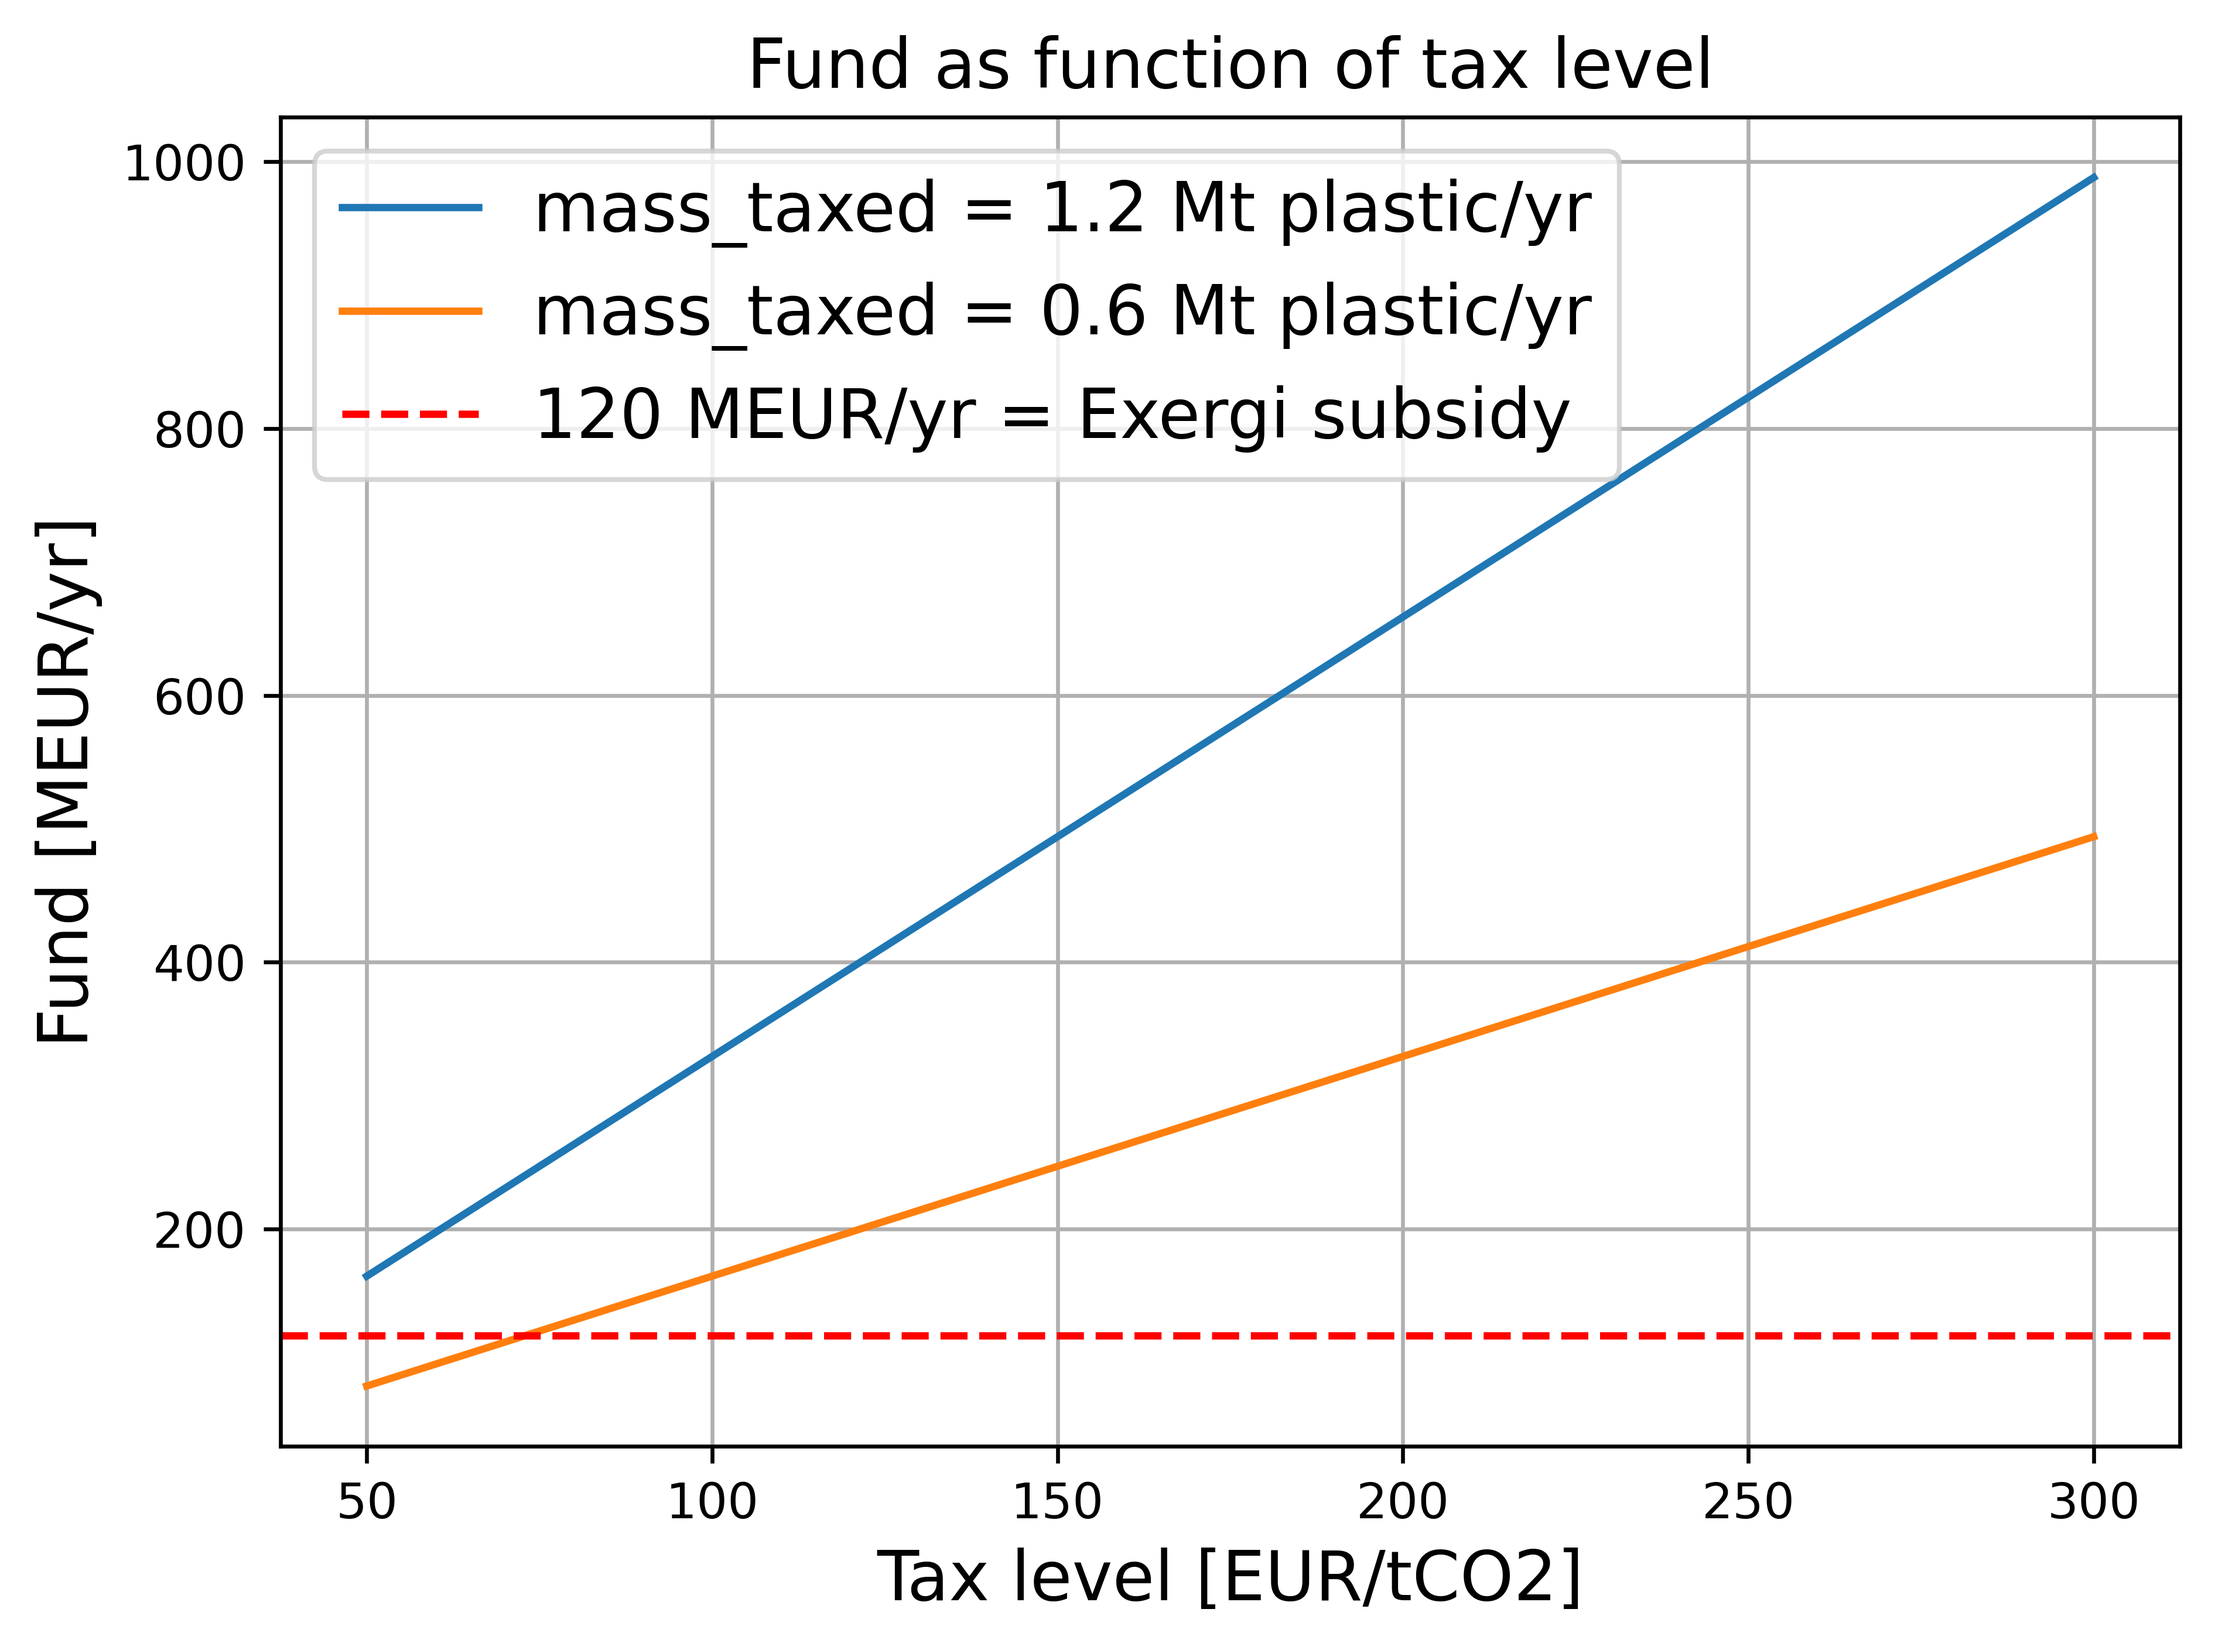
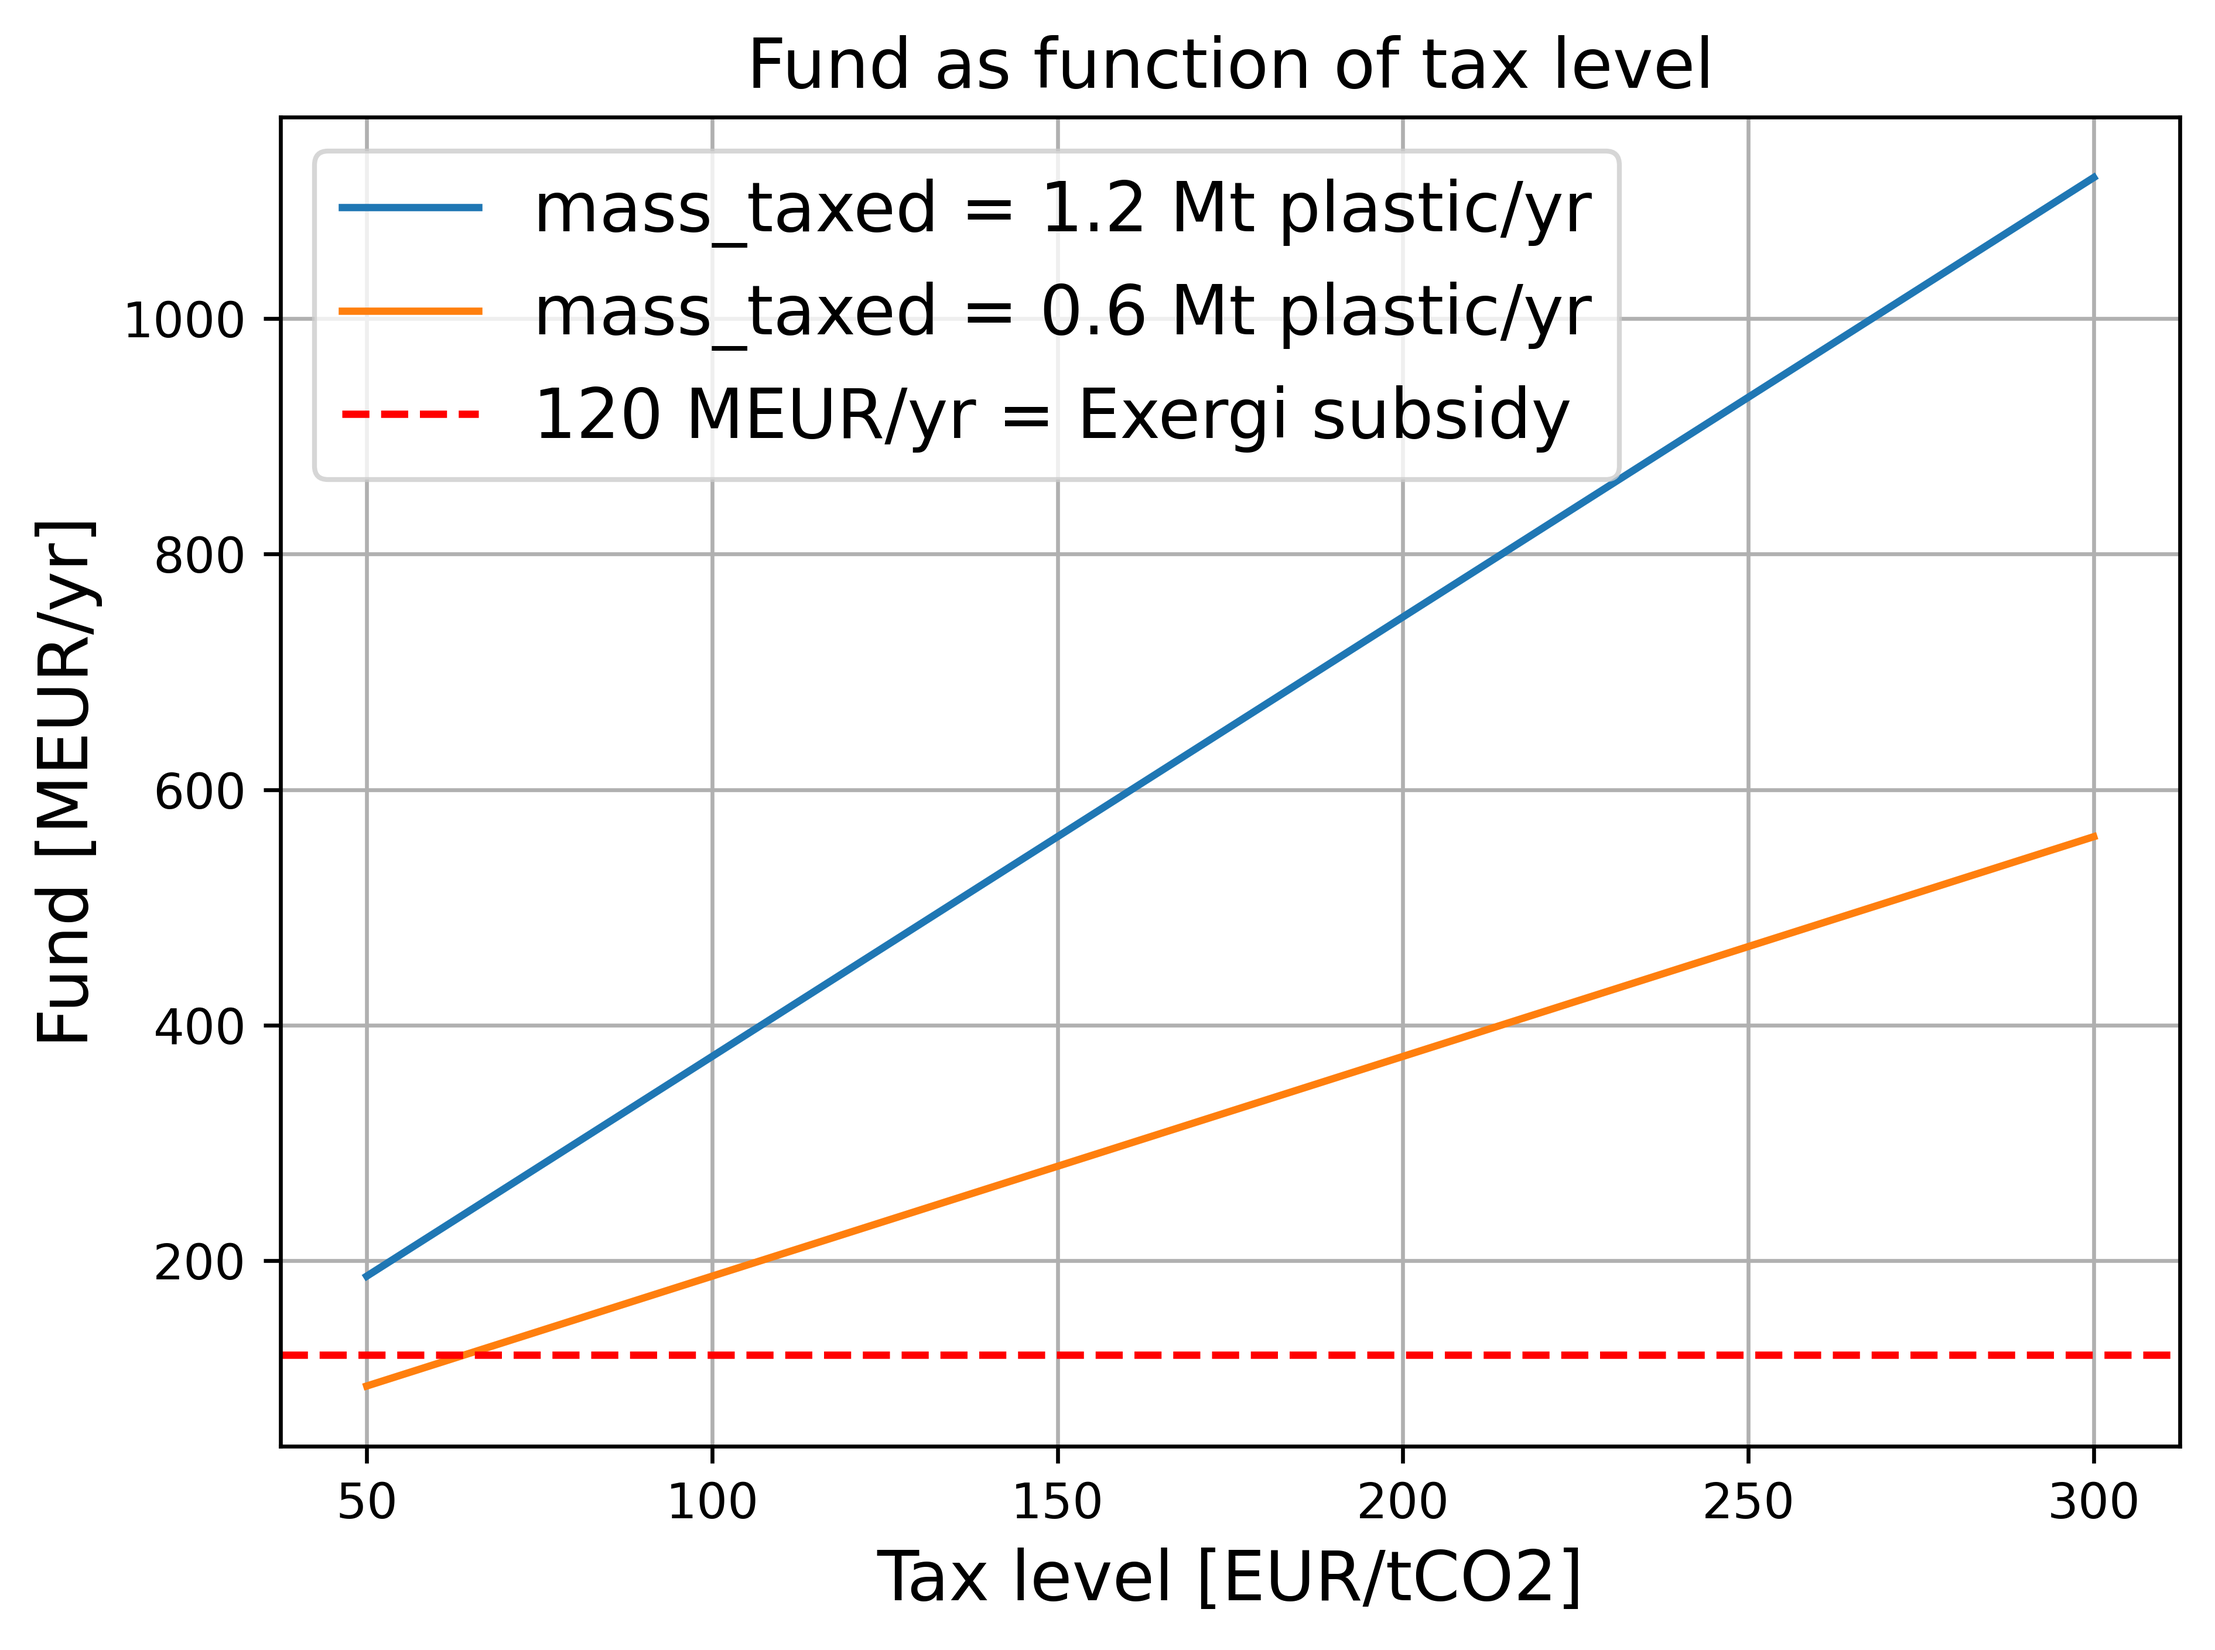
Price increases are implemented - ready to run many scenarios

diff --git a/model_old.py b/model_old.py
@@ -786,10 +786,10 @@ def plan_CCS(plant, x, transport_costs, sea_distances):
     # print("<<< Missing Truck/Rail/Harbor costs >>>")
     # print(plant["hub"], x["destination"])
     
-    hub_value = x[plant["hub"].lower()]              # Get the value (1, 2, or 3) for this hub name from x
+    hub_value = x[plant["hub"].lower()]              # Get the value (1, 2, or 3) for this hub
     scenario = f"{hub_value}Mt"                      # Convert to scenario name (1Mt, 2Mt, or 3Mt)
     
-    scenario_type = "optimist" if x["transport_optimism"] else "pessimist"
+    scenario_type = "optimist" if x["optimism"] else "pessimist"
     scenario_key = f"{scenario_type}_{scenario}"
     # print(scenario_key)
     
@@ -1224,26 +1224,20 @@ def WACCUS_EPR(
     # uncertainties
     mKN39 = 884393,     # [t/a] plastic products mappable under KN39 [IVL]
     pKN39 = 46000,      # [SEK/tpl] [IVL]
-    mgranulates = 1258597, # [t/a] granulates [IVL]
-    pgranulates = 13000, # [SEK/t] [IVL]
-    mbag = 5*10**-6,       # [t/bag] check plastic_mapping calculation
-    pbag = 0.72,           # [SEK/bag]
-    cfraction = 0.85,    # [-] cfraction of carbon in plastic [Isabel]
-    circulated = 0.10,   # [-] fraction of granulates circulated, exempt from tax
+    recyclable = 0.15,  # [-] fraction of simple products possible to recycle mechanically
+    cfraction = 0.75,    # [-] cfraction of carbon in plastic [Isabel]
 
-    FLH = 8000,
     LHV = 11,           # [MJ/kgf] [Hammar]
     Ccontent = 0.298,   # [kgC/kgf]
-    # fossil = 0.40,      # [-] NOTE: assumption not needed: emissions data is available and used
+    fossil = 0.40,      # [-] NOTE: assumption not needed: emissions data is available and used
     qreb = 3.5,         # [MJ/kgCO2]
     COP = 3,
-    heat_optimism = 0.70,  # [0,1] assumed % of waste heat that can be recovered to DH
-    makeup = 0.584/1000,    # [m3/tCO2] [Kumar, 2023]
-    etais = 0.80,           # [-]
 
+    FLH = 8000,
     dr = 0.075,
     t = 25,
     FOAK = 0.45/2,      # [-] [Beiron, 2024] applies to CO2 capture and conditioning 
+    # FOAK = 0, # FOR EON MEETING
     OPEXfix = 0.03,     # [-] [Beiron, 2024] % of CAPEX no, calculated from Ramboll BECCS Malmö [2-5%]
     camine = 2000,      # [EUR/m3] [Beiron, 2024]
     celc = 60,          # [EUR/MWh]
@@ -1257,45 +1251,40 @@ def WACCUS_EPR(
     stockholm = 1,      # [1,2,3] [Mt/yr]
     malmo = 1,          # [1,2,3] [Mt/yr]
     gothenburg = 1,     # [1,2,3] [Mt/yr]
+    optimism = False,   # [True, False]
     destination = "oygarden",  # ["oygarden", "kalundborg"]
-    transport_optimism = False,   # [True, False]
+    heat_optimism = 0.70,  # [0,1] assumed % of waste heat that can be recovered to DH
 
     # levers 
-    tax = 80,          # [EUR/tCO2] [50, 100, 150, 200, 250, 300, 350] NOTE: explore discrete ranges => easier to visualize later
-    recyclable = 0.15,  # [-] fraction of products possible to recycle mechanically (exempt from tax), determined by policy criteria
+    tax = 110,          # [EUR/tCO2]
 
     # constants
-    question = ["granulates"], # ["granulates", "products", "both"]
-    case = ["CCUS"],    # ["CCUS", "CCU", "CCS"] conduct analysis separately for the three cases
     plants = None,
+    case = ["CCUS"],    # ["CCUS", "CCU", "CCS"] conduct analysis separately for the three cases
     k = 0.6857,         # [-] [Stenström, 2025]
     CAPEX_ref = 3715 * 87,  # [MNOK] -> [kEUR] NOTE: can pick other CELSIO CAPEX from source:[Gassnova, Demonstrasjon av Fullskala CO2-Håndtering - Rapport for Avsluttet Forprosjekt]
     captured_ref = 400,     # [ktCO2/yr]
     transport_costs = None,  # Dictionary of transport cost interpolation functions
     sea_distances = None,    # Dictionary of pre-calculated sea distances
     thermo_props = None,     # Dictionary of thermodynamic properties
+
     SEK_TO_EUR = 0.091,     # [EUR/SEK] Exchange rate
-    # assumption = producers do not react to the tax, no recycling rates
+    makeup = 0.584/1000,    # [m3/tCO2] [Kumar, 2023]
+    etais = 0.80,           # [-]
 ):
     x = {
         "mKN39": mKN39,
+        "recyclable": recyclable,
         "pKN39": pKN39,
-        "mgranulates": mgranulates,
-        "pgranulates": pgranulates,
-        "mbag": mbag,
-        "pbag": pbag,
         "cfraction": cfraction,
         
-        "FLH": FLH,
         "LHV": LHV,
         "Ccontent": Ccontent,
-        # "fossil": fossil,
+        "fossil": fossil,
         "qreb": qreb,
         "COP": COP,
-        "heat_optimism": heat_optimism,
-        "makeup": makeup,
-        "etais": etais,
 
+        "FLH": FLH,
         "dr": dr,
         "t": t,
         "FOAK": FOAK,
@@ -1306,6 +1295,7 @@ def WACCUS_EPR(
         "CRC": CRC,
         "ETS": ETS,
         "pmethanol": pmethanol,
+        "heat_optimism": heat_optimism,
 
         "tax": tax,
         "k": k,
@@ -1317,34 +1307,50 @@ def WACCUS_EPR(
         "stockholm": stockholm,
         "malmo": malmo,
         "gothenburg": gothenburg,
+        "optimism": optimism,
         "destination": destination,
-        "transport_optimism": transport_optimism,
-
+        "makeup": makeup,
+        "etais": etais,
         "thermo_props": thermo_props,  # Add thermodynamic properties to x dictionary
     }
 
-    # Taxing plastic products
-    for question in ["granulates"]:
-        if question == "granulates":
-            mass_taxed = mgranulates * (1 - circulated) * cfraction # [tC/yr]
-            granulates_inc = tax * (cfraction*3.66) / (pgranulates*SEK_TO_EUR) # [-]
-            products_inc = tax * (cfraction*3.66) / (pKN39*SEK_TO_EUR) 
-            bag_inc = tax * (cfraction*3.66 * mbag) / (pbag*SEK_TO_EUR) 
-        elif question == "products":
-            mass_taxed = mKN39 * (1 - recyclable) * cfraction # [tC/yr]
-            granulates_inc = 0 # [-]
-            products_inc = tax * (cfraction*3.66) / (pKN39*SEK_TO_EUR) 
-            bag_inc = tax * (cfraction*3.66 * mbag) / (pbag*SEK_TO_EUR)
-        elif question == "both":
-            mass_taxed = mgranulates * (1 - circulated) * cfraction + mKN39 * (1 - recyclable) * cfraction # [tC/yr]
-            granulates_inc = tax * (cfraction*3.66) / (pgranulates*SEK_TO_EUR) # EUR/tCO2 * (tC/tpl*tCO2/tC) / (EUR/tpl) = EUR/tCO2 * (tCO2/tpl) / (EUR/tpl)
-            products_inc = 2 * tax * (cfraction*3.66) / (pKN39*SEK_TO_EUR) # [-] Motivate why this is not double taxation!
-            bag_inc = 2 * tax * (cfraction*3.66 * mbag) / (pbag*SEK_TO_EUR) # EUR/tCO2 * (tCO2/bag) / (EUR/bag)
+    # RQ1: tax revenues
 
-        mass_CO2 = mass_taxed * 3.66 # [tCO2/yr]
-        fund = mass_CO2 * tax * 10**-6 # [MEUR/yr]
+    # Plot fund values as a function of tax level for two cases
+    tax_levels = np.linspace(50, 300, 100)
+    mass_taxed_1 = 1.2
+    mass_taxed_2 = 0.6 # [Mtpl /yr]
 
-    # Creating CCUS bids from CCUS costs
+    fund_1 = mass_taxed_1 * cfraction * 3.66 * tax_levels  # [MEUR/yr]
+    fund_2 = mass_taxed_2 * cfraction * 3.66 * tax_levels  # [MEUR/yr]
+
+    plt.figure()
+    plt.plot(tax_levels, fund_1, label=f"mass_taxed = {mass_taxed_1:.1f} Mt plastic/yr")
+    plt.plot(tax_levels, fund_2, label=f"mass_taxed = {mass_taxed_2:.1f} Mt plastic/yr")
+    plt.axhline(120, color='red', linestyle='--', label='120 MEUR/yr = Exergi subsidy')
+    plt.xlabel("Tax level [EUR/tCO2]", fontsize=14)
+    plt.ylabel("Fund [MEUR/yr]", fontsize=14)
+    plt.title("Fund as function of tax level", fontsize=14)
+    plt.legend(fontsize=14)
+    plt.grid(True)
+    plt.tight_layout()
+    plt.savefig('fund_potential.png', dpi=600, bbox_inches='tight')
+
+    mass_taxed = mKN39 * (1 - recyclable) * cfraction # [tC/yr]
+    mass_CO2 = mass_taxed * 3.66 # [tCO2/yr]
+    fund = mass_CO2 * tax # [EUR/yr]
+    fund /= 10**6 # [MEUR/yr]
+
+    # Forcing an example for EON:
+    mass_CO2 = 1.2 * cfraction * 3.66 # [MtCO2/yr]
+    fund = mass_CO2 * tax # [MEUR/yr]
+
+    # RQ1: product price increases
+    products_df = pd.read_csv("data/products.csv")
+    products_df['tax_amount'] = products_df['weight per unit [kg]']/1000 * (products_df['fossil carbon content [mass%]']/100) * 3.66 * tax  # [EUR]
+    products_df['price_increase_percent'] = (products_df['tax_amount'] / products_df['price per unit [EUR]']) * 100  # [%]
+
+    # RQ2: subsidy costs
     if case == "CCUS":
         CCU_names = ["Renova","SAKAB","Filbornaverket","Garstadverket","Sjolunda"]
         CCS_names = ["Handeloverket","Bristaverket","Vasteras KVV","Hogdalenverket","Bolanderna"]
@@ -1356,6 +1362,7 @@ def WACCUS_EPR(
         CCU_names = []
         CCS_names = ["Renova","Hogdalenverket","Sjolunda","Korstaverket","Garstadverket","Vasteras KVV","Handeloverket","Bolanderna","Filbornaverket","Bristaverket"]
 
+    # Collect all bids
     bids = []
     for _, plant in plants.iterrows():
         if plant["Name"] in CCS_names:
@@ -1470,9 +1477,6 @@ def WACCUS_EPR(
     print(f"Qmethanol: {total_Qmethanol/1000:.1f} GWh/yr")
 
     output = {
-        'granulates_inc': granulates_inc,
-        'products_inc': products_inc,
-        'bag_inc': bag_inc,
         'total_FCCS': total_FCCS,
         'total_BECCS': total_BECCS,
         'total_FCCU': total_FCCU,
@@ -1481,6 +1485,7 @@ def WACCUS_EPR(
         'total_Qpenalty': total_Qpenalty,
         'total_Qmethanol': total_Qmethanol,
         'remaining_fund': remaining_fund,
+        'product_increases': products_df[['name', 'price per unit [EUR]', 'tax_amount', 'price_increase_percent']].to_dict('records'),
         'bid_data': bids,
     }
     return output
@@ -1511,14 +1516,12 @@ if __name__ == "__main__":
     
     # Run the model
     output = WACCUS_EPR(
-        question="granulates",
-        case="CCS", 
         plants=plants, 
         k=k,                          # For CAPEX=CAPEX_ref⋅(mCO2/mCO2_ref)^k
+        case="CCU", 
         transport_costs=transport_costs,
         sea_distances=sea_distances,  # Pass pre-calculated distances dict
-        thermo_props=thermo_props,     # Pass thermodynamic properties
-        SEK_TO_EUR=SEK_TO_EUR,
+        thermo_props=thermo_props     # Pass thermodynamic properties
     )
     
     # Create and save the plots
@@ -1532,25 +1535,6 @@ if __name__ == "__main__":
     positive_categories = ['OPEXfix', 'OPEXmakeup', 'OPEXenergy', 'levelized_CAPEX', 'transport_cost']    
     negative_categories = ['fossil_incentive', 'biogenic_incentive']
     fig3 = plot_plant_cost_breakdown(ccs_plants)
-
-    # Plot price increases
-    plt.figure(figsize=(10, 6))
-    categories = ['Granulates', 'Products', 'Bags']
-    values = [output['granulates_inc'], output['products_inc'], output['bag_inc']]
-    
-    bars = plt.bar(categories, values, color=['skyblue', 'lightcoral', 'lightgreen'], alpha=0.7)
-    
-    # Add value labels on top of bars
-    for bar, value in zip(bars, values):
-        height = bar.get_height()
-        plt.text(bar.get_x() + bar.get_width()/2., height + 0.001,
-                f'{value:.3f}', ha='center', va='bottom', fontweight='bold')
-    
-    plt.ylabel('Price Increase [-]', fontsize=12)
-    plt.title('Plastic Price Increases Due to Carbon Tax', fontsize=14, fontweight='bold')
-    plt.grid(True, alpha=0.3, axis='y')
-    plt.tight_layout()
-    plt.savefig('price_increases.png', dpi=600, bbox_inches='tight')
 
     # print("--- Feedback from Johanna/Judit ---")
     # print("The KPIs are ish similar to those in Johanna's study. However, I am to optimistic about recovering waste heat.")
@@ -1566,6 +1550,5 @@ if __name__ == "__main__":
     # print("-> This is suspicious because one H2 should be lost (mass-wise) for each methanol molecule produced: CO2+3H2=>CH3OH+H2O")
     # print(" .... She thinks I MUST DO EXERGY ANALYSIS... since heat is different... well, I don't think so, since I only need MONEY analysis!")
 
-    print("\nTODO: IMPLEMENT PLASTIC PRICE INCREASES")
     plt.show()
 
